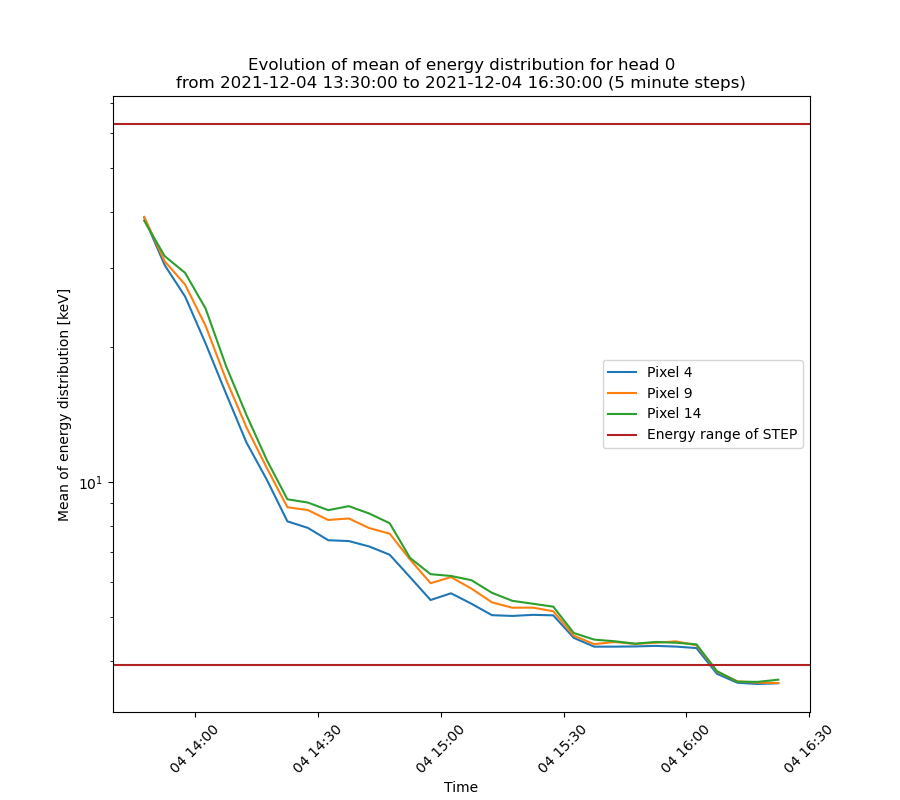
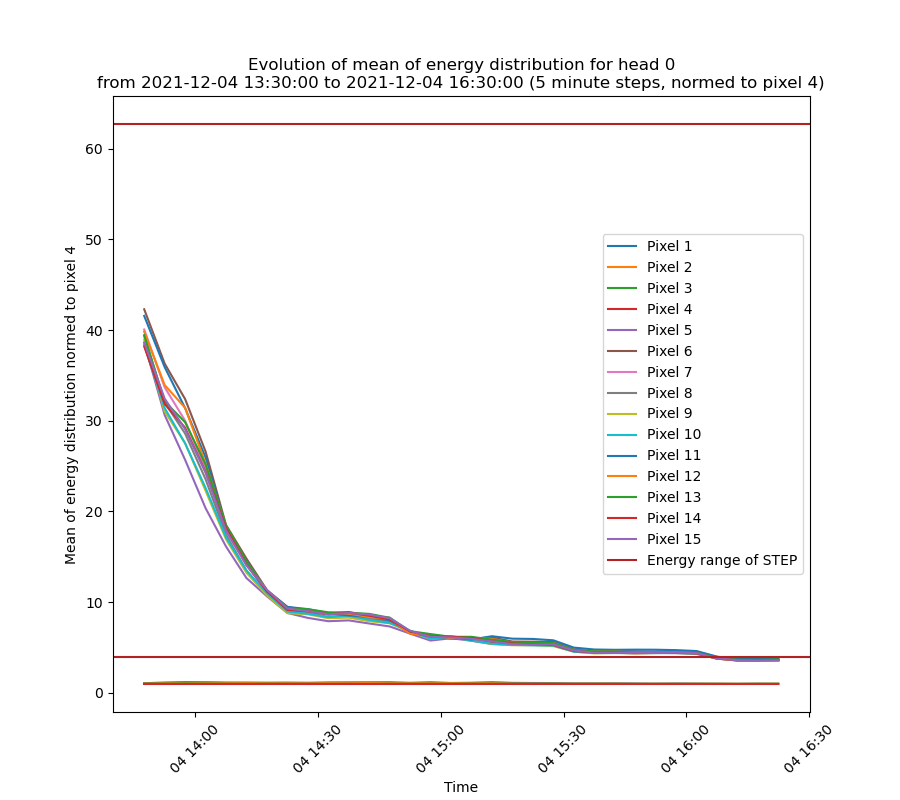
Joa..

diff --git a/analyze_nom_II.py b/analyze_nom_II.py
@@ -424,9 +424,10 @@ class STEP:
         print('Plotted evo_energy_means_pixels_' + filename + ' successfully.')
         
         
-    def evolution_energy_means_combined(self, filename, ebins=ebins,res = '1min', head = 0, period = None, window_width = 5, pixel_list = [i for i in range(1,16)], save = False, norm = False, overflow = True, esquare = False, box_list = False):
+    def evolution_energy_means_combined(self, filename, ebins=ebins,res = '1min', head = 0, period = None, window_width = 5, pixel_list = [i for i in range(1,16)], save = False, norm = False, overflow = True, esquare = False, box_list = False, norm_pixel=4):
         '''Übergebe period und Zeitfensterbreite. Intergriere die jeweiligen Energien in den Zeitfenstern und stelle die Entwicklung der means für die angegebenen Pixel
-        in einem Plot dar. Bei minütlicher Auflösung entspricht window_width von 5 Einträgen fünf Minuten.'''
+        in einem Plot dar. Bei minütlicher Auflösung entspricht window_width von 5 Einträgen fünf Minuten. Normiere auf bestimmten norm_pixel.
+        Der Normierungspixel muss in der Pixelliste enthalten sein.'''
         i = 0
         pixel_means = [[] for i in range(16)]     # Liste mit Listen der Mittelwerte der einzelnen Pixel. Die erste Liste enthält die Zeitstempel (jeweils Mitte der Zeitfenster)
         
@@ -451,12 +452,23 @@ class STEP:
                 mean = mean/np.sum(integral)
                 pixel_means[k].append(mean)
             i +=1
+            
+        if norm_pixel != None:
+            # Normierung
+            for k in pixel_list:
+                pixel_means[k] = np.array(pixel_means[k])/np.array(pixel_means[norm_pixel])
         
         fig = plt.figure(figsize=(9,8))
-        plt.title('Evolution of mean of energy distribution for head ' + str(head) + '\nfrom ' + str(period[0]) + ' to ' + str(period[1]) + ' (' + str(window_width) + ' minute steps)')
+        if norm_pixel != None:
+            plt.title('Evolution of mean of energy distribution for head ' + str(head) + '\nfrom ' + str(period[0]) + ' to ' + str(period[1]) + ' (' + str(window_width) + ' minute steps, normed to pixel ' + str(norm_pixel) + ')')
+        else:
+            plt.title('Evolution of mean of energy distribution for head ' + str(head) + '\nfrom ' + str(period[0]) + ' to ' + str(period[1]) + ' (' + str(window_width) + ' minute steps)')
         plt.xlabel('Time')
-        plt.ylabel('Mean of energy distribution [keV]')
-        plt.yscale('log')
+        if norm_pixel != None:
+            plt.ylabel('Mean of energy distribution normed to pixel ' + str(norm_pixel))
+        else:
+            plt.ylabel('Mean of energy distribution [keV]')
+            plt.yscale('log')
         plt.tick_params(axis='x',labelrotation=45)
         
         for i in pixel_list:
@@ -474,11 +486,17 @@ class STEP:
         print('Plotted evo_energy_means_combined_' + filename + ' successfully.')
 
 
-    def evolution_energy_means_ts(self, filename, head, norm, save, period, box_list, pixel_list):
+    def evolution_energy_means_ts(self, filename, head, norm, save, period, box_list, pixel_list, norm_pixel,close=False):
         '''Kombiniere Plots der Zeitreihe und der Energiemittelwerte für bestimmte Boxen. filename gilt für den Mittelwertsplot.'''
         self.evolution_energy_means_pixels(filename=filename,norm=norm,save=save,period=period,box_list=box_list)
-        self.evolution_energy_means_combined(filename=filename,norm=norm,pixel_list=pixel_list,save=save,period=period,box_list=box_list)
+        if close:
+            plt.close('all')
+        self.evolution_energy_means_combined(filename=filename,norm=norm,pixel_list=pixel_list,save=save,period=period,box_list=box_list,norm_pixel=norm_pixel)
+        if close:
+            plt.close('all')
         self.plot_ts(period=period, head=head, save=save, norm=norm,box_list=box_list)
+        if close:
+            plt.close('all')
     
 
     def landau(self,x,A,B,C,D):

diff --git a/analyze_data.py b/analyze_data.py
@@ -10,7 +10,8 @@ from analyze_nom_II import STEP
 dat = STEP(2021,12,4)
 
 box_list = [[[15,35],[30,38]],[[20,45],[25,30]],[[26,80],[20,25]],[[30,120],[15,20]],[[40,155],[10,15]],[[50,170],[3,10]]]
-pixel_list = [4,9,14]
+box_list_2 = [[[15,35],[30,35]],[[20,45],[25,30]],[[30,60],[20,25]],[[30,80],[15,20]],[[50,100],[10,15]],[[100,150],[3,10]]]
+pixel_list = [i for i in range(1,16)]
 
 # dat.marginal_distribution(pixel=4,norm='tmax',save='analyze/')
 # dat.marginal_distribution(pixel=4,norm='tmax',save='analyze/',period=[dt.datetime(2021,12,4,13,30),dt.datetime(2021,12,4,16,30)],fit=True)
@@ -20,7 +21,8 @@ pixel_list = [4,9,14]
 # dat.evolution_energy_means(filename='test_evolution.png',norm='tmax',save='etracks/',period=[dt.datetime(2021,12,4,13,30),dt.datetime(2021,12,4,16,30)],box_list=box_list)
 # dat.plot_ts(period=[dt.datetime(2021,12,4,13,30),dt.datetime(2021,12,4,16,30)], head=0, save='etracks/', norm='tmax',box_list=box_list)
 
-dat.evolution_energy_means_ts(filename='test_evolution.png',head=0,norm='tmax',save='etracks/',period=[dt.datetime(2021,12,4,13,30),dt.datetime(2021,12,4,16,30)],box_list=box_list,pixel_list=pixel_list)
+dat.evolution_energy_means_ts(filename='test_evolution.png',head=0,norm='tmax',save='etracks/',period=[dt.datetime(2021,12,4,13,30),dt.datetime(2021,12,4,16,30)],box_list=box_list,pixel_list=pixel_list,norm_pixel=4,close=True)
+dat.evolution_energy_means_ts(filename='test_evolution_2.png',head=0,norm='tmax',save='etracks/v2',period=[dt.datetime(2021,12,4,13,30),dt.datetime(2021,12,4,16,30)],box_list=box_list_2,pixel_list=pixel_list,norm_pixel=4,close=True)
 
 
 # dat = STEP(2021,12,5)
